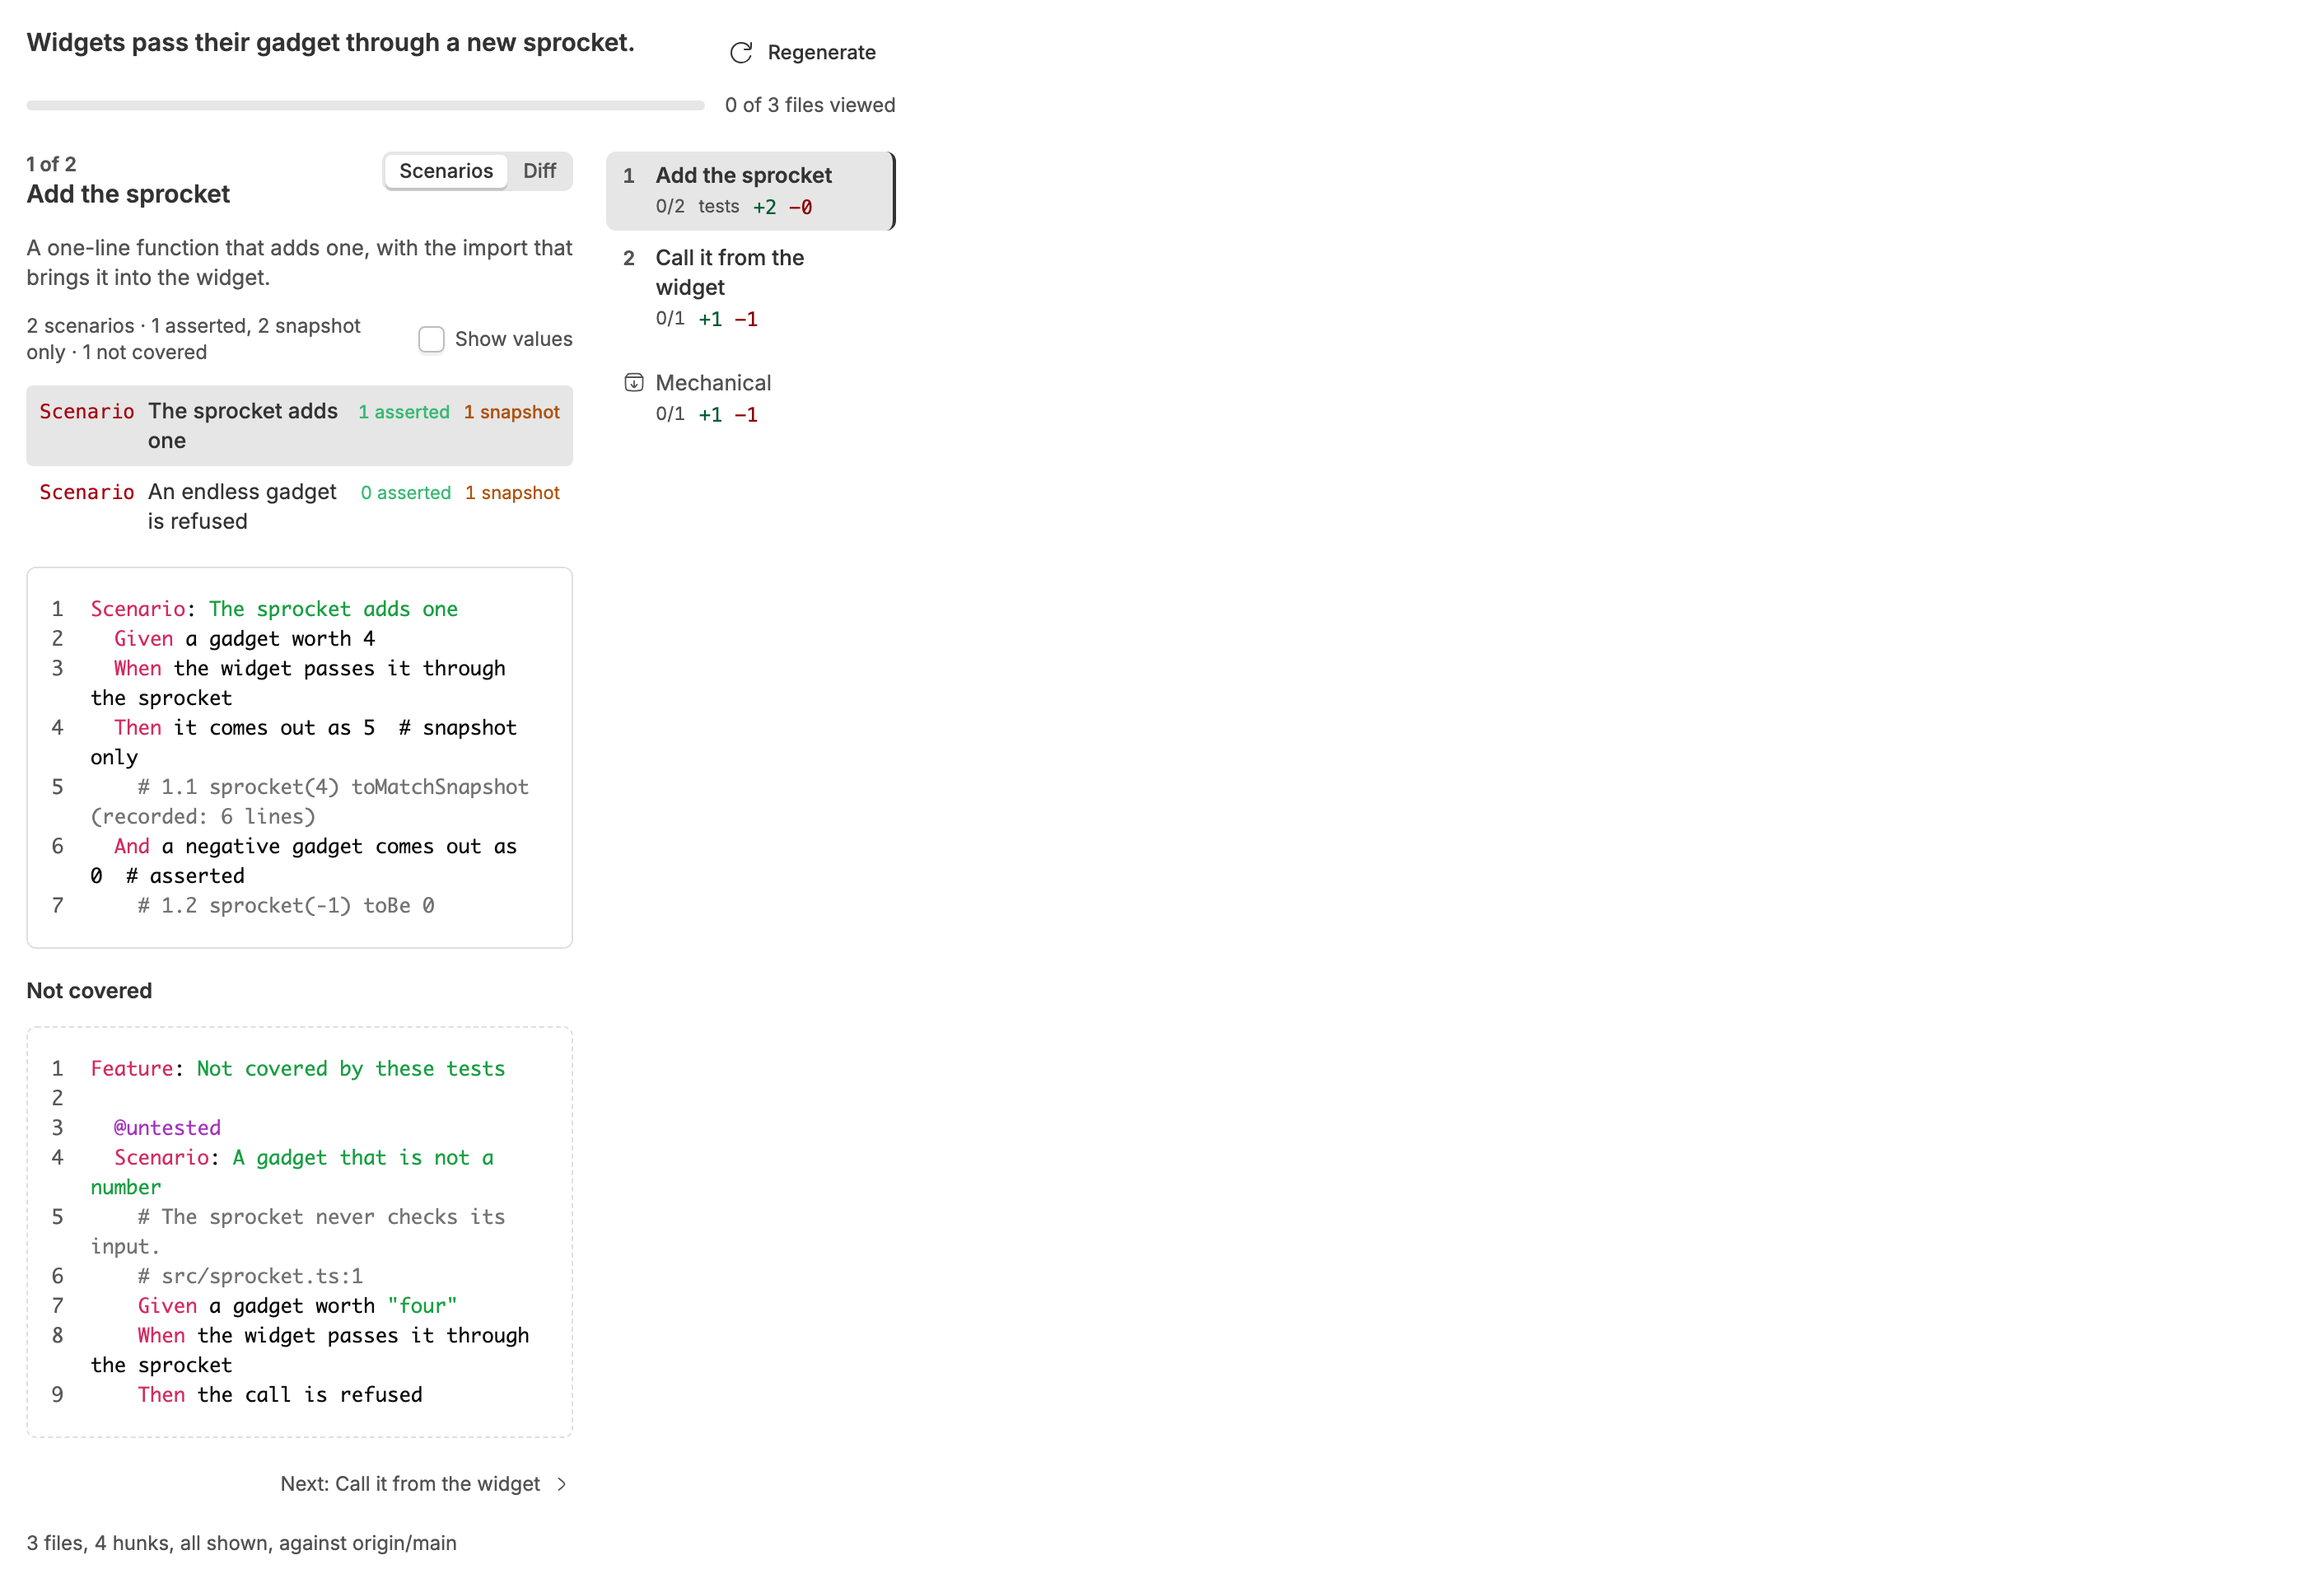
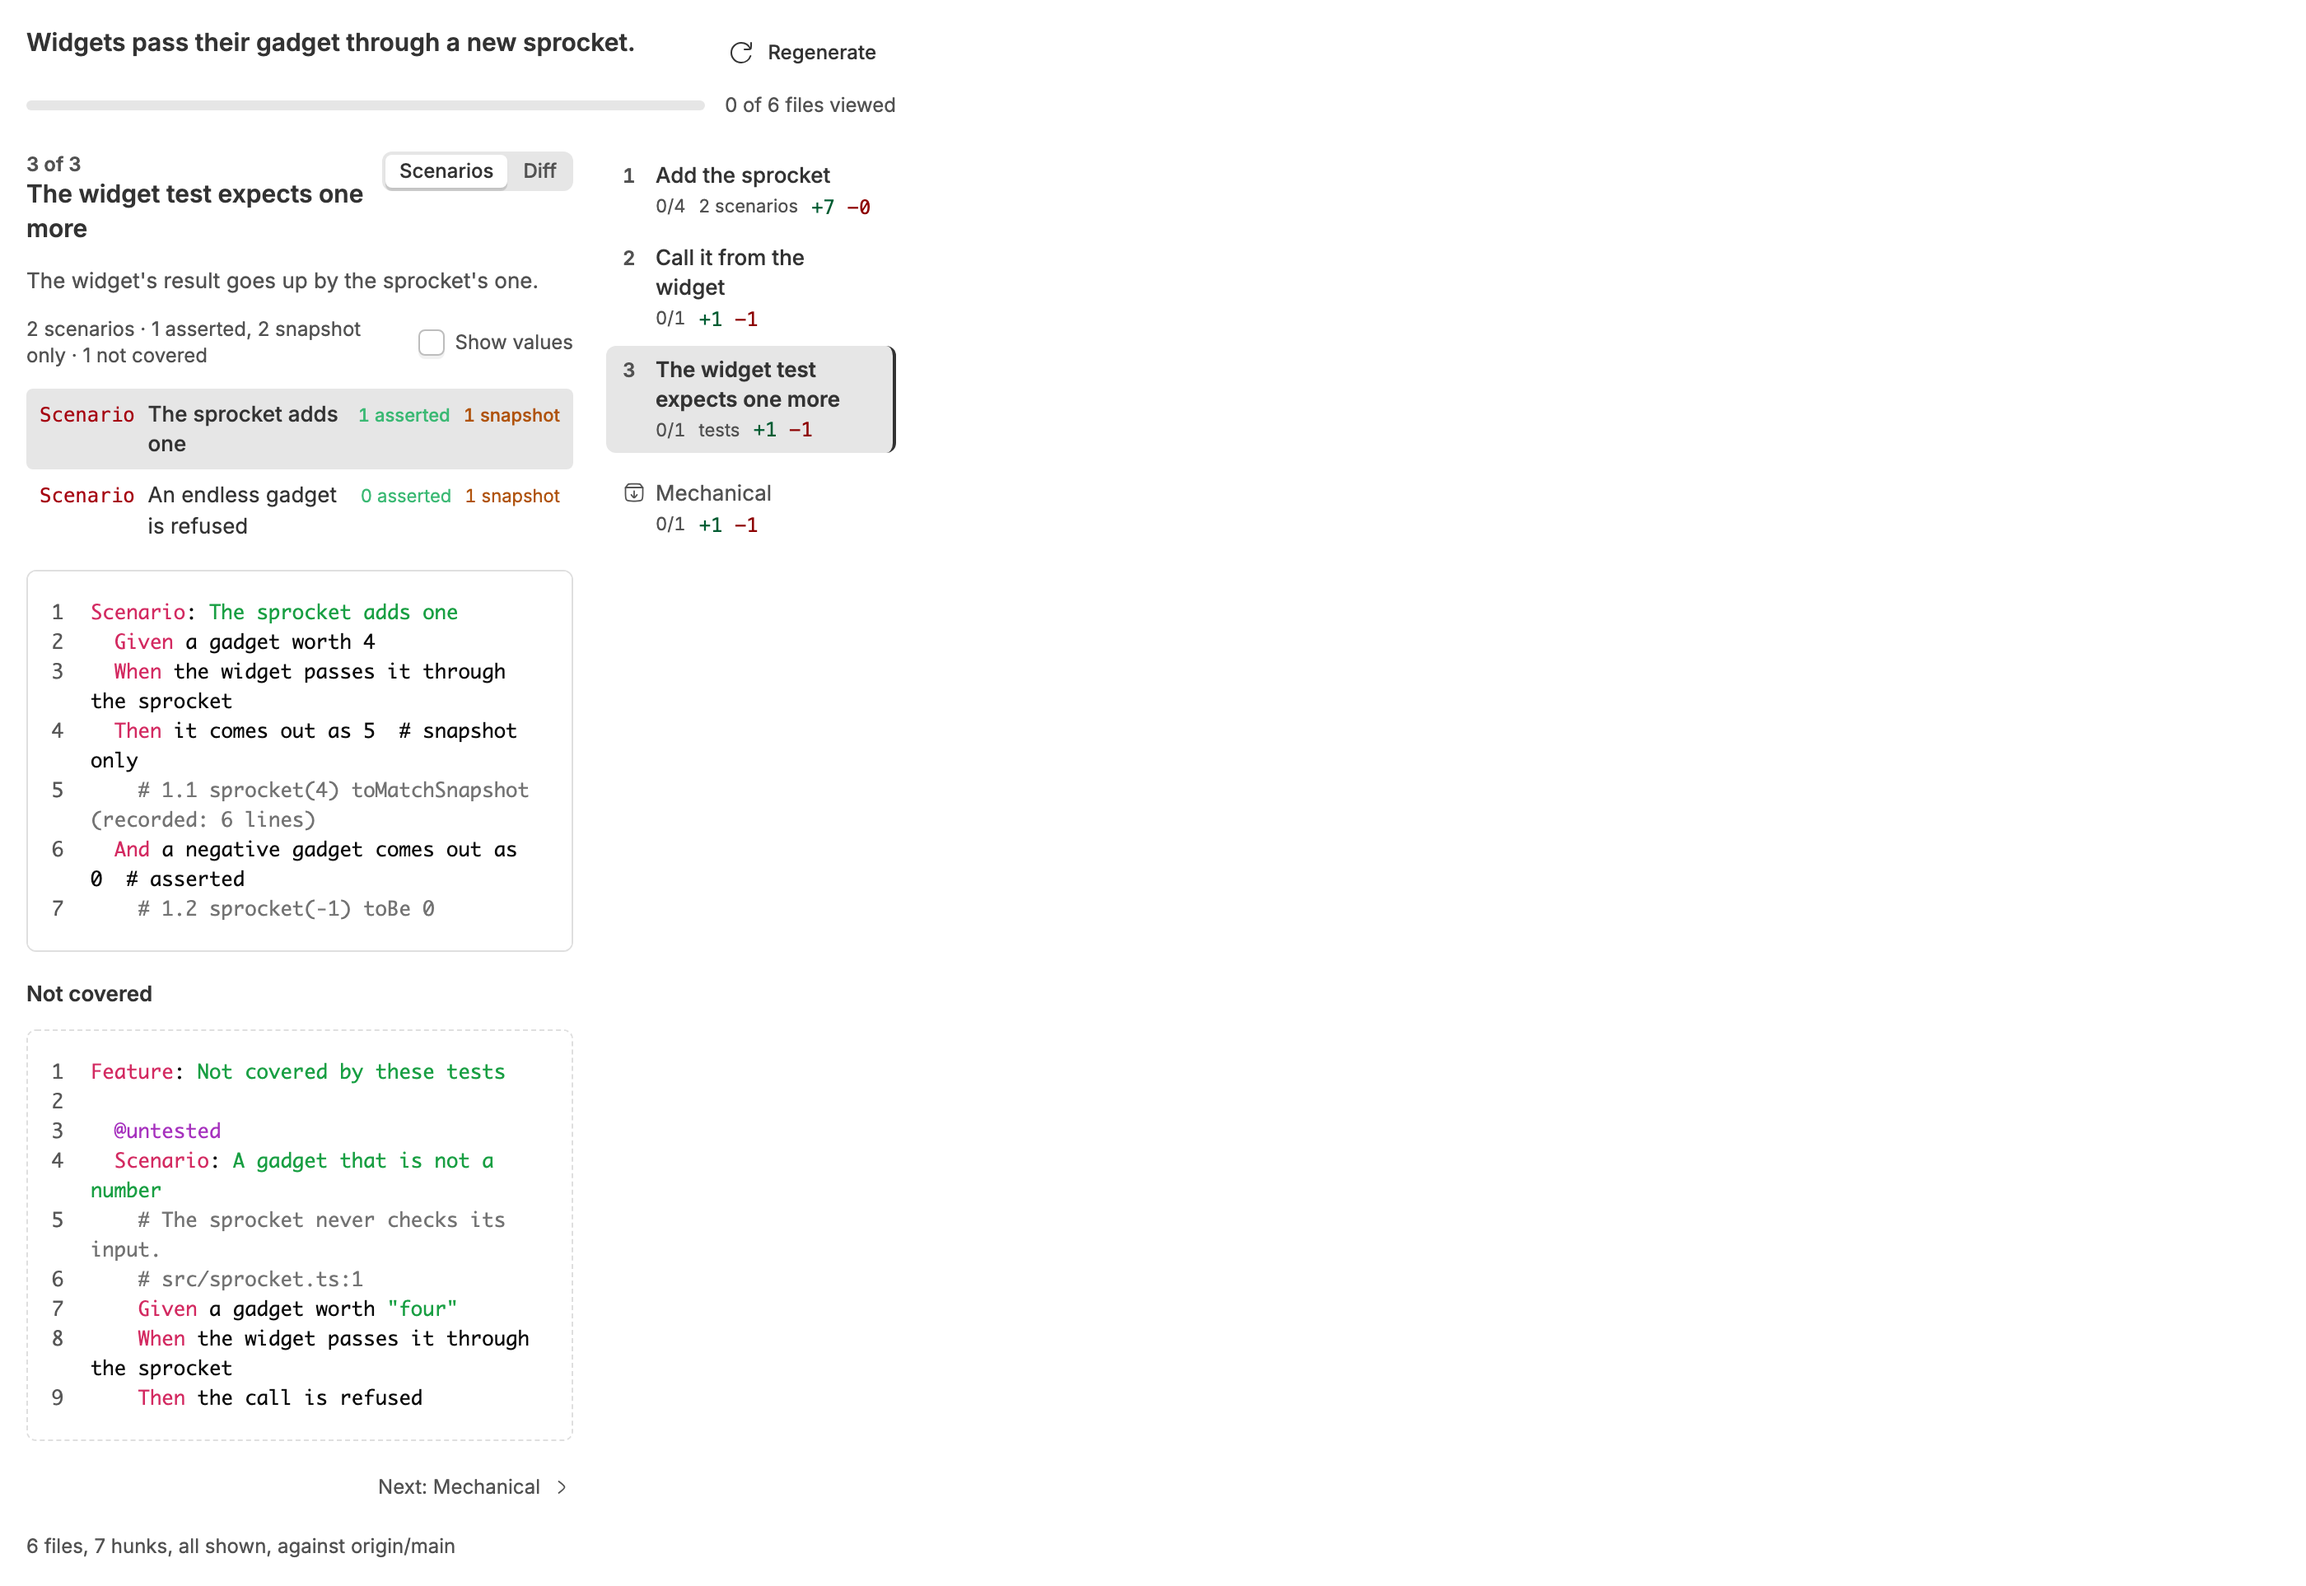
0ff227b Show a concern's code first and its tests below it
danielbachhuber/bb-plugins@0ff227be287ccbfb3a5692a098d803371f385702

diff --git a/README.md b/README.md
@@ -18,7 +18,7 @@ small history while the visual history is still available.
 | [PR Sweep](pr-sweep/README.md) | Open pull requests you authored in one list, newest first with the overdue and in-progress ones pinned on top, with local notes, new comment counts, and where a stacked pull request sits in its stack. | 4 stories |
 | [Presentations](presentations/README.md) | Give a talk from a bb thread. | 6 stories |
 | [Review Sweep](review-sweep/README.md) | Open pull requests waiting on a review from you in one list, ordered Now, Next, and Later by what needs you, oldest request first, with local notes, new comment counts, and where a stacked pull request sits in its stack. | 4 stories |
-| [Super Diff](super-diff/README.md) | Review a branch one concern at a time. | 8 stories |
+| [Super Diff](super-diff/README.md) | Review a branch one concern at a time. | 9 stories |
 | [sweep-ui](sweep-ui/README.md) | The list Issue Sweep, PR Sweep, and Review Sweep draw each tab with: summary squares, rows ordered Now, Next, and Later, and a stage track. | 3 stories |
 | [Thread Overview](thread-overview/README.md) | A band under each thread's header saying what the thread is for, what has been done so far, and which step it is on, written by the agent as it works and edited by you in place. | 1 story |
 | [Tokenomics](tokenomics/README.md) | Graphs how many tokens your threads used over the past day, three days, or week, lists each thread's share, and puts a sparkline of each thread's token use over time in its header that opens a summary of which of your messages used the most. | 10 stories |

diff --git a/super-diff/README.md b/super-diff/README.md
@@ -44,9 +44,15 @@ A branch with nothing on it yet.
 
 ![No changes](review-panel--no-changes.png)
 
+### Code and tests
+
+A concern that changes code and tests: the code first, then its tests as scenarios under Tests, whose Scenarios and Diff toggle swaps only the test files. The rail counts its scenarios.
+
+![Code and tests](review-panel--code-and-tests.png)
+
 ### Test concern
 
-A test concern on Scenarios: its scenarios listed, the chosen one as Gherkin with recorded values folded until Show values, then what the tests leave out. Diff shows the raw files.
+A concern that is only tests: its scenarios listed, the chosen one as Gherkin with recorded values folded until Show values, then what the tests leave out. Diff, beside the title, shows the raw files. The rail tags it "tests".
 
 ![Test concern](review-panel--test-concern.png)
 
